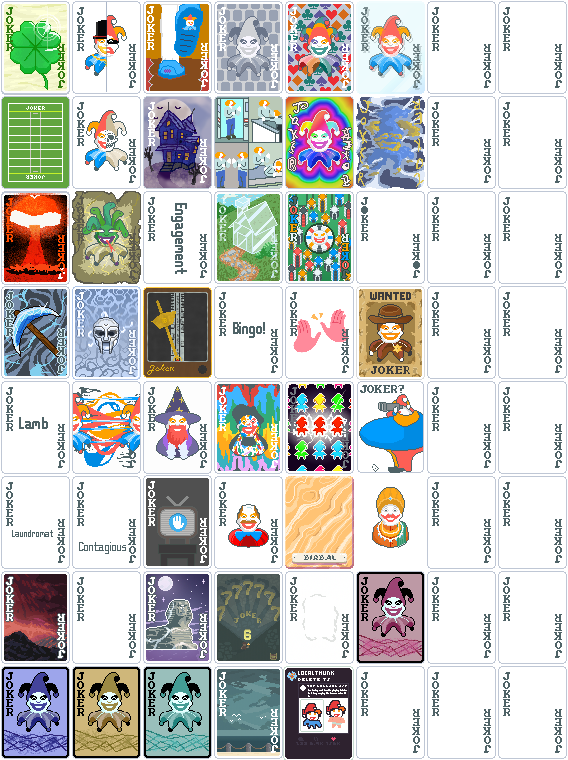
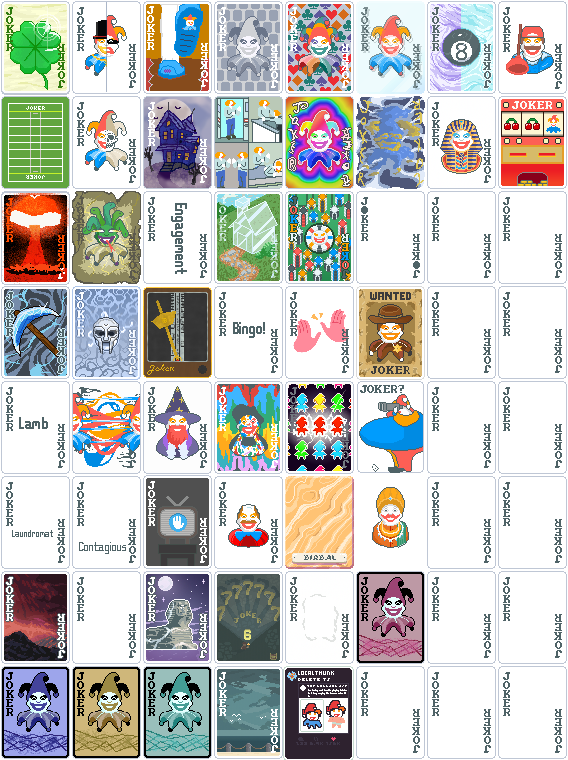
Added Pharaoh Joker
- Added Pharaoh Joker
- Updated Joker Textures for some Jokers
- Fixed some Planning issues

Changed region(s): [[0.7782, 0.0303, 1.0, 0.2421], [0.7482, 0.0, 0.868, 0.1211]]

diff --git a/planning.md b/planning.md
@@ -36,7 +36,10 @@
 - [x] Hollow Point [Link](https://www.reddit.com/r/balatro/comments/1hnbwvn/oc_here_are_some_custom_jokers_and_more_concepts/)
 - [x] Marvin [Link](https://www.reddit.com/r/balatro/comments/1kx76fw/i_got_bored_again/)
 - [x] Chaste, Kind, Charitable, Abstinent Joker [Link](https://www.reddit.com/r/balatro/comments/1l7vmnh/all_the_jokercard_ideas_ive_had_while_playing/)
-- [x] Plumber [Link](https://www.reddit.com/r/balatro/comments/1ku3zt4/thought of a plumber joker idea that would give a/)
+- [x] Plumber [Link](https://www.reddit.com/r/balatro/comments/1ku3zt4/thought_of_a_plumber_joker_idea_that_would_give_a/)
+- [x] Cash Back [Link](https://www.reddit.com/r/balatro/comments/1l6iud1/joker_concepts_for_shops/)
+- [x] Pier [Link](https://www.reddit.com/r/balatro/comments/1hnbwvn/oc_here_are_some_custom_jokers_and_more_concepts/)
+- [x] Legally Distinct [Link](https://www.reddit.com/r/balatro/comments/1kov6fo/had_these_joker_ideas_rattling_around_in_my_head/)
 FINISHPOSTREP
 
 # Waiting List
@@ -45,7 +48,6 @@ FINISHPOSTREP
 - [ ] Goldfinger [Link](https://www.reddit.com/r/balatro/comments/1kviylt/i_made_a_joker_that_completes_the_banana_trilogy/)
 - [ ] Double Glazing [Link](https://www.reddit.com/r/balatro/comments/1kmcvm1/decided_to_make_some_custom_joker_ideas_no_idea/)
 - [ ] Biker [Link](https://www.reddit.com/r/balatro/comments/1kmxev1/wanna_join_our_biker_gang_custom_joker_post/) 
-- [ ] Legally Distinct [Link](https://www.reddit.com/r/balatro/comments/1kov6fo/had_these_joker_ideas_rattling_around_in_my_head/) [UNAPPROVED - SENT]
 - [ ] Joke Free Zone [Link](https://www.reddit.com/r/balatro/comments/1kqcdt3/i_love_drawing_jokers_for_fun_so_i_tried_to_turn/) [UNAPPROVED]
 - [ ] Brainfart [Link](https://www.reddit.com/r/balatro/comments/1kman09/a_more_consistent_get_for_a_less_consistent_result/) [UNAPPROVED]
 - [ ] Thunderstruck [Link](https://www.reddit.com/r/balatro/comments/1jycf28/balanced_jonklers_volume_2/?utm_source=share&utm_medium=web3x&utm_name=web3xcss&utm_term=1&utm_content=share_button) (Note: Hard)
@@ -55,11 +57,8 @@ FINISHPOSTREP
 - [ ] Deterioration [Link](https://www.reddit.com/r/balatro/comments/1l7vmnh/all_the_jokercard_ideas_ive_had_while_playing/)
 - [ ] Decay [Link](https://www.reddit.com/r/balatro/comments/1l7vmnh/all_the_jokercard_ideas_ive_had_while_playing/)
 - [ ] [SEAL] Green Seeal [Link](https://www.reddit.com/r/balatro/comments/1l7vmnh/all_the_jokercard_ideas_ive_had_while_playing/)
-- [ ] Chaste, Kind, Charitable, Abstinent Joker [Link](https://www.reddit.com/r/balatro/comments/1l7vmnh/all_the_jokercard_ideas_ive_had_while_playing/)
-- [ ] Cash Back [Link](https://www.reddit.com/r/balatro/comments/1l6iud1/joker_concepts_for_shops/)
 - [ ] Chasm [Link](https://www.reddit.com/r/balatro/comments/1l89253/the_solution_to_make_stone_cards_viable_remove/)
 - [ ] Distinguished [Link](https://www.reddit.com/r/balatro/comments/1hnbwvn/oc_here_are_some_custom_jokers_and_more_concepts/)
-- [ ] Pier [Link](https://www.reddit.com/r/balatro/comments/1hnbwvn/oc_here_are_some_custom_jokers_and_more_concepts/)
 - [ ] Rover [Link](https://www.reddit.com/r/balatro/comments/1hnbwvn/oc_here_are_some_custom_jokers_and_more_concepts/)
 - [ ] Pharaoh [Link](https://www.reddit.com/r/balatro/comments/1hnbwvn/oc_here_are_some_custom_jokers_and_more_concepts/)
 - [ ] Tough Crowd [Link](https://www.reddit.com/r/balatro/comments/1hnbwvn/oc_here_are_some_custom_jokers_and_more_concepts/)
@@ -77,7 +76,7 @@ FINISHPOSTREP
 - [ ] The Promotion [Link](https://www.reddit.com/r/balatro/comments/1kup5u1/some_unserious_joker_ideas/)
 - [ ] The Werewolf [Link](https://www.reddit.com/r/balatro/comments/1kup5u1/some_unserious_joker_ideas/)
 - [ ] Slot_Machine [Link](https://www.reddit.com/r/balatro/comments/1ktd4dg/had_an_idea_for_a_slot_machine_joker_lemme_know/)
-- [ ] Plumber [Link](https://www.reddit.com/r/balatro/comments/1ku3zt4/thought of a plumber joker idea that would give a/)
+- [ ] Plumber [Link](https://www.reddit.com/r/balatro/comments/1ku3zt4/thought_of_a_plumber_joker_idea_that_would_give_a/)
 - [ ] Social_Media [Link](https://www.reddit.com/r/balatro/comments/1l5zqj4/joker_idea/)
 NEWPOSTREP
 
